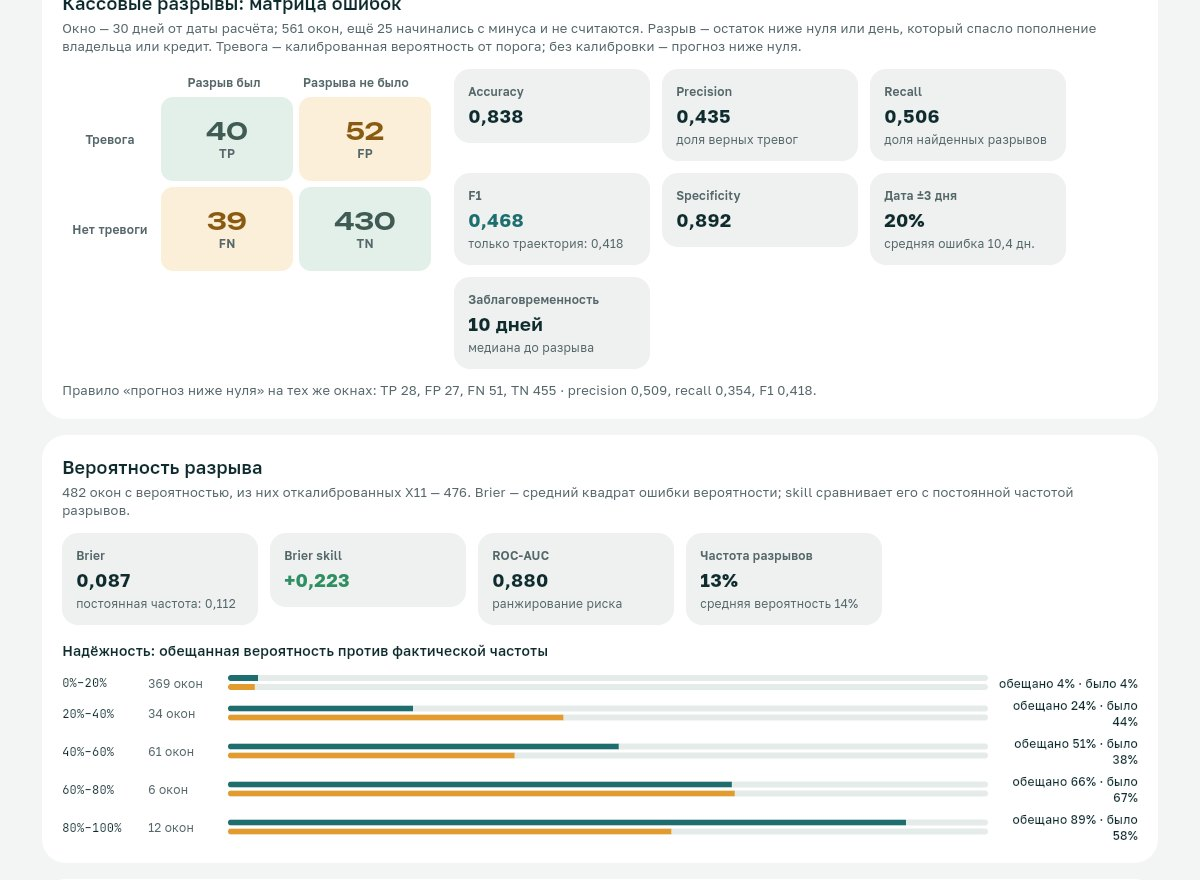
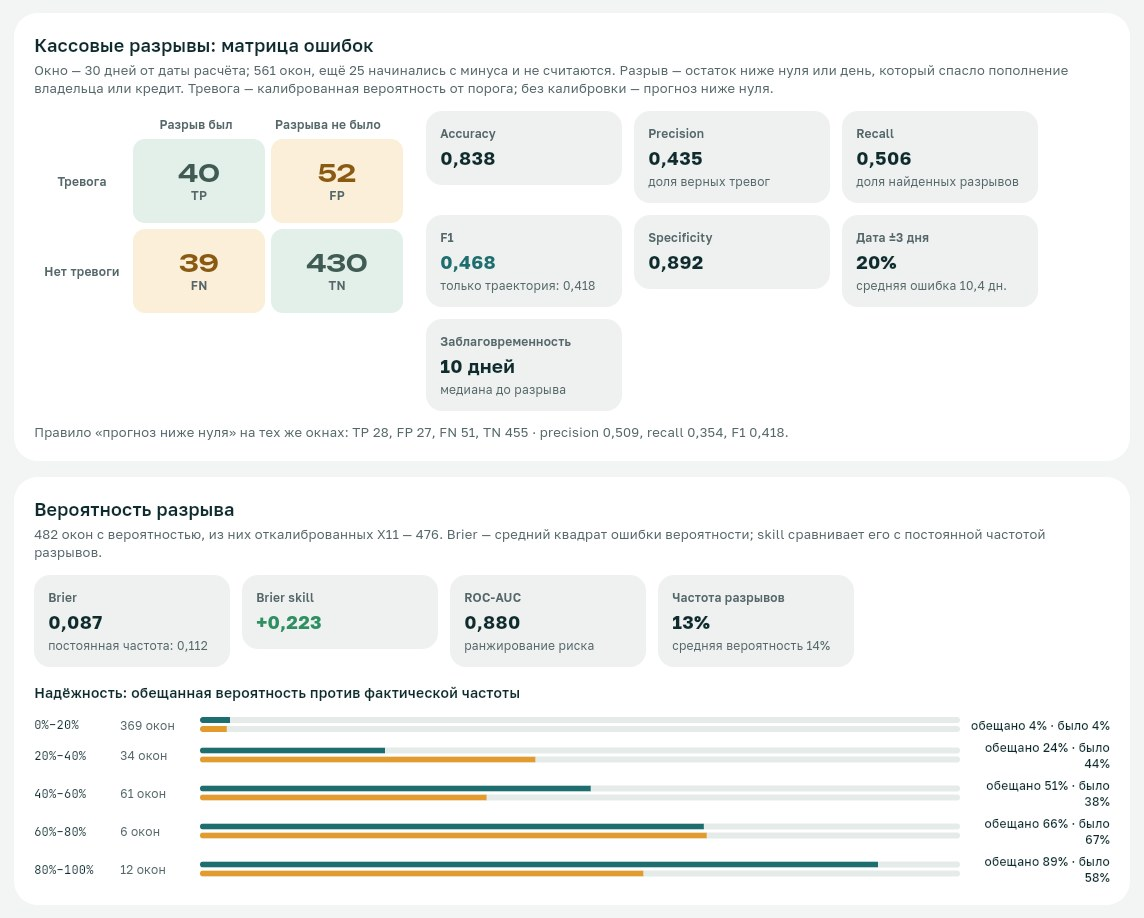
Ровные скриншоты в README и вход без ошибки «недействительные учётные данные»
- Скриншоты сняты заново и обрезаны по краям карточек: без кнопки чата
  поверх, без затемнения диалога; карточка компании — C124 с проверкой
  от 20.07 (тревога на 10-й день, разрыв на 11-й).
- API принимает только Bearer-токен: заголовок Basic, который браузер
  продолжает слать после снятия пароля сайта, больше не считается
  неверным токеном. Пример nginx передаёт в API только Bearer.

diff --git a/tests/test_api.py b/tests/test_api.py
@@ -139,6 +139,22 @@ def test_demo_does_not_expose_private_imports(svc):
     )
 
 
+def test_a_leftover_site_password_is_not_a_bad_token(svc):
+    from fastapi.testclient import TestClient
+
+    from apps.api.main import create_app
+
+    # A browser keeps sending the Basic password of a site that no longer asks for it.
+    demo = TestClient(create_app(svc, users={}, auth_mode="demo"))
+    basic = {"Authorization": "Basic Y2FzaGZsb3c6b2xk"}
+    assert demo.get("/api/v1/accounts", headers=basic).status_code == 200
+    assert demo.get("/api/v1/accounts", headers={"Authorization": "Bearer nope"}).status_code == 403
+    strict = TestClient(create_app(svc, users={"t": {"id": "alice"}}, auth_mode="token"))
+    answer = strict.get("/api/v1/accounts", headers=basic)
+    assert answer.status_code == 403 and answer.json()["detail"] == "Требуется Bearer-авторизация"
+    assert strict.get("/api/v1/accounts", headers={"Authorization": "bearer t"}).status_code == 200
+
+
 def test_api_new_scenarios_top_clients_and_explanation(client, auth):
     bob = {"Authorization": "Bearer bob-token"}
     body = {"account_id": "A", "as_of": "2026-04-30", "model": "mean"}

diff --git a/apps/api/main.py b/apps/api/main.py
@@ -127,10 +127,9 @@ def create_app(service=None, users=None, auth_mode=None, assistant=None):
     mcp = MCPServer(svc)
 
     def principal(authorization: Annotated[str | None, Header()] = None):
-        if authorization:
-            token = (
-                authorization.removeprefix("Bearer ") if authorization.startswith("Bearer ") else ""
-            )
+        # Only a Bearer token is ours: a browser may keep sending a site password (Basic).
+        if authorization and authorization[:7].lower() == "bearer ":
+            token = authorization[7:]
             for candidate, identity in user_map.items():
                 if secrets.compare_digest(token, candidate):
                     return {"id": identity["id"], "accounts": identity.get("accounts", [])}

diff --git a/README.md b/README.md
@@ -40,11 +40,11 @@
 <table>
 <tr>
 <td width="50%"><img src="docs/screenshots/gaps.jpg" alt="Матрица ошибок по разрывам: TP 40, FP 52, FN 39, TN 430; precision, recall, F1, Brier, ROC-AUC"></td>
-<td width="50%"><img src="docs/screenshots/company.jpg" alt="Компания на странице отладки: прогноз с коридором, прогноз против факта, пошаговый журнал расчёта"></td>
+<td width="50%"><img src="docs/screenshots/company.jpg" alt="C124 на странице отладки: прогноз на 30 дней с коридором P10–P90 и проверка от 20.07: тревога на 10-й день, разрыв на 11-й"></td>
 </tr>
 <tr>
 <td align="center">Метрики на загруженном датасете</td>
-<td align="center">Прогноз против факта и журнал расчёта</td>
+<td align="center">Прогноз против факта: тревога за день до разрыва</td>
 </tr>
 </table>
 
@@ -123,7 +123,7 @@
 | MAE остатка / RMSE | 1,50 млн ₽ / 4,23 млн ₽ (у «не изменится» 1,46 / 4,14) |
 | MAE минимума месяца | 1,12 млн ₽ против 1,42 млн ₽ — на 21% точнее |
 
-<p align="center"><img src="docs/screenshots/metrics.jpg" alt="Страница «Отладка»: прогноз на последнюю дату, точность остатка (MAE, RMSE, MSE, WAPE, skill), ошибка по горизонту и матрица ошибок" width="760"></p>
+<p align="center"><img src="docs/screenshots/metrics.jpg" alt="Страница «Отладка»: прогноз на последнюю дату и точность остатка — MAE, RMSE, MSE, WAPE, skill, ошибка по горизонту" width="760"></p>
 
 Ограничения:
 
